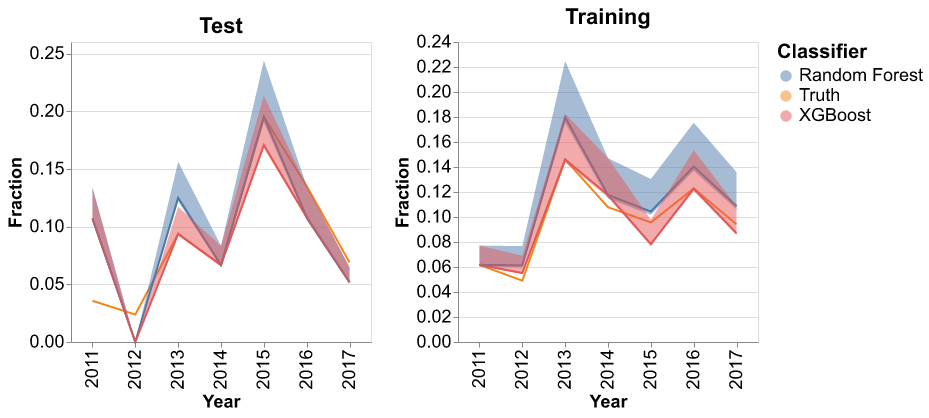
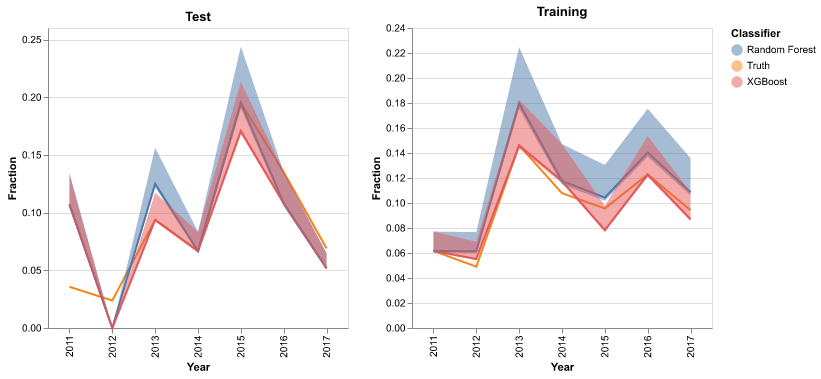
Updating plot formattiing

diff --git a/scripts/classifierutils.py b/scripts/classifierutils.py
@@ -144,42 +144,6 @@ def getYearlyFractions(label:np.ndarray, year:np.ndarray):
     return year_frac
 
 
-def correlationPlots(savepath, **kwargs):
-    '''
-    Function to generate a correlation plot for 
-
-    Arguments:
-        - savepath (str) : path to save the image to, without a file extension.
-        - **kwargs (array-likes) : keyword-arguments of the names of each fraction
-                                    array and the arrays themselves. Must include 
-                                    a "Truth" keyword array.
-
-    '''
-
-    ## Define the dataframe for generating the plots
-    df = pd.DataFrame(kwargs)
-    df = df.melt("Truth", var_name="Classifier", value_name="Prediction")
-    
-    ## Plot the fraction data
-    chart = alt.Chart(df).mark_point().encode(
-        x = "Truth:Q",
-        y = "Prediction:Q",
-        color = "Classifier:N",
-        shape = "Classifier:N"
-    )
-    line = alt.Chart().mark_rule().encode(
-        x = alt.datum(0),
-        x2 = alt.datum(0.25),
-        y = alt.datum(0),
-        y2 = alt.datum(0.25)
-    )
-    chart = line + chart
-
-    ## Save the plots
-    chart.save(f"{savepath}.png")
-    chart.save(f"{savepath}.svg")
-
-
 
 def testClassifiers(classifier_dict:dict, **tups:tuple):
     '''
@@ -221,6 +185,9 @@ def testClassifiers(classifier_dict:dict, **tups:tuple):
         fpr_dict[cname] = fpr
         fnr_dict[cname] = fnr
 
+    ## uhhhhhh
+    corr_df = pd.DataFrame()
+
 
     ## Compute desired metrics for each dataset.
     for tup_name,tup in tups.items():
@@ -235,9 +202,7 @@ def testClassifiers(classifier_dict:dict, **tups:tuple):
         # Compute the true fraction of samples belonging to 131-C
         year_axis = np.unique(year)
         true_year_frac = getYearlyFractions(y, year)
-
-        # Initialize a dictionary for generating correlation plots
-        correlation_dict = {"Truth": true_year_frac}
+        corr_dict = {"Truth":true_year_frac}
 
         ## Intialize a dataframe to plot fraction predictions
         alt_df = pd.DataFrame({"Year":year_axis, "Truth": true_year_frac})
@@ -252,7 +217,7 @@ def testClassifiers(classifier_dict:dict, **tups:tuple):
             ## Compute predicted fractions of 131-C each year
             pred_year_frac = getYearlyFractions(y_pred, year)
             alt_df[cname] = pred_year_frac
-            correlation_dict[cname] = pred_year_frac
+            corr_dict[cname] = pred_year_frac
 
             ## Add predicted information to the output string
             printstr += "\tYear  |  Predicted Fraction\n\t" + "-"*27 + "\n"
@@ -265,7 +230,9 @@ def testClassifiers(classifier_dict:dict, **tups:tuple):
             printstr += f"\nPearson R: {r_val.statistic:5f}\nR P-value: {r_val.pvalue:5f}\n"
 
         ## Create and save correlation plots
-        correlationPlots(f"output/correlation_{tup_name}", **correlation_dict)
+        _df = pd.DataFrame(corr_dict)
+        _df["Dataset"] = tup_name
+        corr_df = pd.concat([corr_df, _df])
 
 
         ## Impute the colums of the yearly fraction dataframe to produce 
@@ -303,27 +270,38 @@ def testClassifiers(classifier_dict:dict, **tups:tuple):
         chrt = chrt.properties(width=300, height=300)
         charts.append(chrt)
 
+    ## Produce the correlation plots
+    corr_df = corr_df.melt(["Truth","Dataset"], var_name="Classifier", value_name="Prediction")
+    corr_plot = alt.Chart(corr_df).mark_point().encode(
+        x = "Truth:Q",
+        y = "Prediction:Q",
+        shape = "Classifier:N",
+        color = "Classifier:N"
+    )
+    corr_line = alt.Chart(corr_df).mark_rule().encode(
+        x = alt.datum(0),
+        x2 = alt.datum(0.2),
+        y = alt.datum(0),
+        y2 = alt.datum(0.2)
+    )
+    corr_chart = alt.layer(
+        corr_plot, 
+        corr_line,
+        data=corr_df
+    ).facet(
+        column=alt.Column("Dataset:N", title="")
+    ).resolve_axis(
+        x='independent',
+        y='independent',
+    )
+
     ## Combine all the produced visualizations
     output_chart = alt.hconcat()
     for c in charts:
         output_chart |= c
-    output_chart = output_chart.configure_axis(
-        labelFontSize=18,
-        titleFontSize=18,
-        labelLimit=400
-    ).configure_legend(
-        labelFontSize=18,
-        titleFontSize=20,
-        titleLimit=400,
-        labelLimit=600
-    ).configure_header(
-        labelFontSize=20
-    ).configure_title(
-        fontSize=22
-    )
+    output_chart = output_chart
 
-    # print(type(output_chart))
-    return printstr, output_chart, fpr_dict, fnr_dict
+    return printstr, output_chart, corr_chart, fpr_dict, fnr_dict
 
 
 

diff --git a/scripts/main.py b/scripts/main.py
@@ -65,13 +65,22 @@ if __name__=="__main__":
         print(f"\nFitting {c_name}:")
         c.fit(xs,ys)
 
+    # ## Load models
+    with open("models/random_forest.pkl","rb") as f:
+        rf_model = pickle.load(f)
+    with open("models/xgboost.pkl","rb") as f:
+        xgb_model = pickle.load(f)
+    classifiers = {"Random Forest": rf_model,
+                   "XGBoost": xgb_model}
+
     ## Test the trained classifiers
-    teststr, testchart, fpr_dict, fnr_dict = testClassifiers(classifiers, Test=(xt,yt,year_t), Training=(xs,ys,year_s))
+    teststr, testchart, corrchart, fpr_dict, fnr_dict = testClassifiers(classifiers, Test=(xt,yt,year_t), Training=(xs,ys,year_s))
 
     ## Use the classifiers to predict the ST-131 Clade C membership for the UTI data
     uti_dd = uti_df[antibiotics].to_numpy()
     uti_year = uti_df["Year"].to_numpy()
     predchart = predictClassifiers(classifiers, x=uti_dd, year=uti_year, fpr_dict=fpr_dict, fnr_dict=fnr_dict, uti_idx=uti_df.index)
+    
     ## Save the models
     with open("models/random_forest.pkl","wb") as f:
         pickle.dump(classifiers["Random Forest"].best_estimator_, f)
@@ -83,6 +92,8 @@ if __name__=="__main__":
     testchart.save(f"output/yearly_fraction_predictions_training.svg")
     predchart.save(f"output/yearly_fraction_predictions_unlabelled.png")
     predchart.save(f"output/yearly_fraction_predictions_unlabelled.svg")
+    corrchart.save(f"output/yearly_fraction_correlations.png")
+    corrchart.save(f"output/yearly_fraction_correlations.svg")
 
     ## Save the textual test performance output
     with open("output/classifier_metrics.txt","w") as f:
